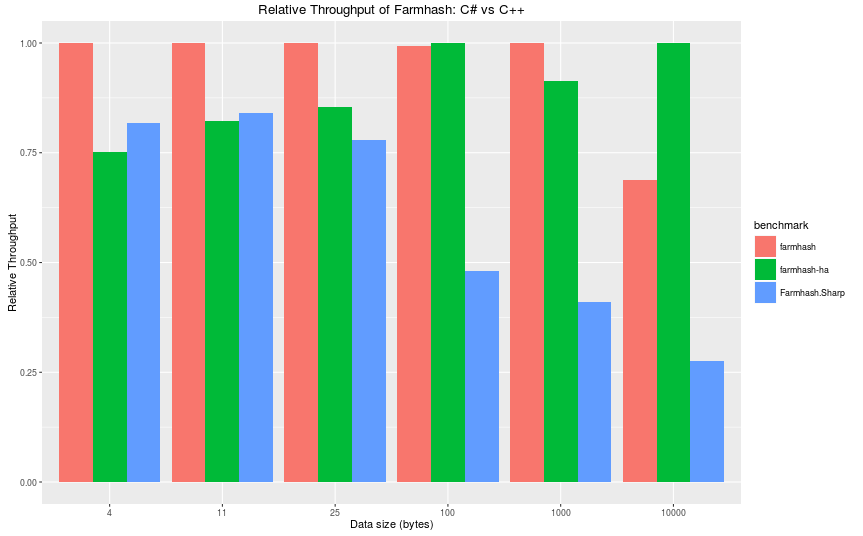
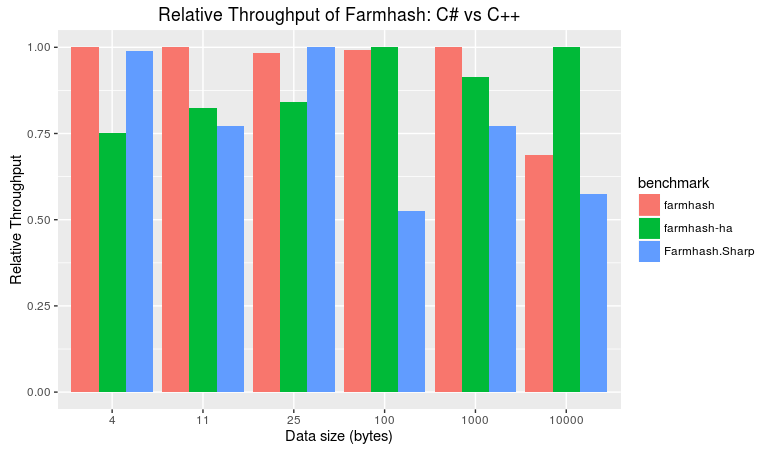
Update generated documentation for version 0.3

diff --git a/benchmarks.html b/benchmarks.html
@@ -44,7 +44,7 @@ against each other in terms of throughput.</p>
 <span class="l">4: </span>
 <span class="l">5: </span>
 </pre></td>
-<td class="snippet"><pre class="fssnip"><code lang="ini">BenchmarkDotNet=v0.9.1.0
+<td class="snippet"><pre class="fssnip"><code lang="ini">BenchmarkDotNet=v0.9.7.0
 OS=Microsoft Windows NT 6.2.9200.0
 Processor=Intel(R) Core(TM) i7-6700K CPU @ 4.00GHz, ProcessorCount=8
 Frequency=3914059 ticks, Resolution=255.4893 ns
@@ -60,23 +60,39 @@ HostCLR=MS.NET 4.0.30319.42000, Arch=64-bit RELEASE [RyuJIT]
 </tr>
 </table>
 <h2><a name="Median-Time-to-Hash" class="anchor" href="#Median-Time-to-Hash">Median Time to Hash</a></h2>
-<p><img src="/Farmhash.Sharp/img/farmhash-benchmark1.png" alt="Farmhash-benchmark1" /></p>
+<p><a href="/Farmhash.Sharp/img/farmhash-benchmark1.png"><img src="/Farmhash.Sharp/img/farmhash-benchmark1.png" alt="Farmhash-benchmark1" /></a></p>
+<p>That's a big graph, so to get a better idea of the data, you can click on it
+for maximum view.</p>
 <p>The graph depicts the median time in nanoseconds to hash data of a certain
 size grouped by resulting hash size (eg. 32 or 64bit, which is not underlying
 machine architecture). A logarithmic scale had to be applied because other
-hash functions are so slow, they'd heavily skew the graph.</p>
-<p>We can see for 64bit, that when hashing data that is 1000 bytes (~1KB), that
-FarmHash is about 10x faster than the closest competitor.</p>
+hash functions are so slow, they'd heavily skew the graph. Slow examples include,
+MD5, which I included as a baseline, SpookyHash, and HashFunctionCityHash to name
+a few. Intrinsically, these hash functions are not slow, but the C# implementation
+leaves a lot wanting in terms of performance.</p>
+<p>Due to the sheer amount of data it may be hard to interpret the graph. It's included
+mostly for completeness before we narrow the data down to the fastest. But, what we
+can see is that n see for 64bit, that when hashing data that is 1000 bytes (~1KB) or less,
+Farmhash.Sharp is the clear winner.</p>
 <p>For 32bit hash functions, the built in <code>GetHashCode</code> on strings has a tight
 grip on smaller data, but falls off for larget data.</p>
 <h2><a name="Relative-Throughput" class="anchor" href="#Relative-Throughput">Relative Throughput</a></h2>
-<p><img src="/Farmhash.Sharp/img/farmhash-benchmark2.png" alt="Farmhash-benchmark2" /></p>
+<p>Now let's narrow the data down to the top three fastest implementation for each
+data size (4, 11, 25, etc bytes).</p>
+<p><a href="/Farmhash.Sharp/img/farmhash-benchmark2.png"><img src="/Farmhash.Sharp/img/farmhash-benchmark2.png" alt="Farmhash-benchmark2" /></a></p>
 <p>The bar shows the relative throughput of each hash function relative to the
 fastest hash function in that category. So the higher the bar chart, the
 better.</p>
-<p>Here we combine resulting 32 and 64 bit hash functions for an interesting
-result. Across all data sizes, the FarmHash-64bit version is fastest, though
-for short string lengths, <code>GetHashCode</code> gives FarmHash a run for its money.</p>
+<p>The results show that Farmhash.Sharp is the fastest or is in the top three for
+every category except for hashing 100 bytes. Notable shotout has to be given
+to the xxHash function <a href="https://github.com/ayende/ravendb/blob/d43acf65e4e55b8789f3ea0d900bd44366ca81e0/Raven.Sparrow/Sparrow/Hashing.cs">implemented in Ravendb</a>,
+as it starts to outpace Farmhash.Sharp in large inputs.</p>
+<h2><a name="Absolute-Throughput" class="anchor" href="#Absolute-Throughput">Absolute Throughput</a></h2>
+<p>Relative throughput is only one metric. How many megabytes a second (MB/s) a algorithm
+can process is another:</p>
+<p><a href="/Farmhash.Sharp/img/farmhash-benchmark3.png"><img src="/Farmhash.Sharp/img/farmhash-benchmark3.png" alt="Farmhash-benchmark3" /></a></p>
+<p>Notice that the throughput is less for smaller inputs. This is because there is additional
+overhead to working with small objects and repeatedly calling the function.</p>
 <h2><a name="C-vs-C" class="anchor" href="#C-vs-C">C# vs. C++</a></h2>
 <p>A good question would be how much efficiency is lost because we're using
 C# and not C++, as the original farmhash algorithm uses C++. You can find the
@@ -84,15 +100,16 @@ benchmark code <a href="https://github.com/nickbabcock/Farmhash.Sharp/tree/5ef3f
 It uses two versions of the algorithm, one that uses hardware acceleration
 (<a href="https://en.wikipedia.org/wiki/SIMD">SIMD</a> instructions), denoted by <code>-ha</code>
 in the graph, and another compilation that does not use hardware acceleration.</p>
-<p><img src="/Farmhash.Sharp/img/c-sharp-vs-cpp.png" alt="Farmhash-benchmark3" /></p>
+<p><a href="/Farmhash.Sharp/img/c-sharp-vs-cpp.png"><img src="/Farmhash.Sharp/img/c-sharp-vs-cpp.png" alt="Farmhash-benchmark4" /></a></p>
 <p>I'm pleased to report that for small payloads (&lt;= 25 bytes), Farmhash.Sharp
-is around 75% as fast as the fastest configuration. It's only at larger payloads
-do we see C++'s lead extend as hardware acceleration becomes more effective.</p>
+is around about the fastest if not the fastest. It's only at larger payloads
+do we see C++'s lead extend as hardware acceleration becomes more effective.
+Still, for large payloads, Farmhash.Sharp has half the throughput as hardware
+accelerated C++, which in my opinion, is quite impressive.</p>
 <h2><a name="Conclusion" class="anchor" href="#Conclusion">Conclusion</a></h2>
 <p>When deploying on a 64bit application, always choose the 64bit Farmhash
-version. If, for whatever reason, Farmhash isn't for you, choose xxHash for
-data of lengths less than 1000 bytes and HashFunction CityHash for lengths
-greater than 1000.</p>
+version. If, for whatever reason, Farmhash isn't for you, choose xxHash found
+in Ravendb.</p>
 <p>And I'm just going to squirrel away the code used to generate the graph.</p>
 <table class="pre"><tr><td class="lines"><pre class="fssnip"><span class="l"> 1: </span>
 <span class="l"> 2: </span>
@@ -121,34 +138,88 @@ greater than 1000.</p>
 <span class="l">25: </span>
 <span class="l">26: </span>
 <span class="l">27: </span>
+<span class="l">28: </span>
+<span class="l">29: </span>
+<span class="l">30: </span>
+<span class="l">31: </span>
+<span class="l">32: </span>
+<span class="l">33: </span>
+<span class="l">34: </span>
+<span class="l">35: </span>
+<span class="l">36: </span>
+<span class="l">37: </span>
+<span class="l">38: </span>
+<span class="l">39: </span>
+<span class="l">40: </span>
+<span class="l">41: </span>
+<span class="l">42: </span>
+<span class="l">43: </span>
+<span class="l">44: </span>
+<span class="l">45: </span>
+<span class="l">46: </span>
+<span class="l">47: </span>
+<span class="l">48: </span>
+<span class="l">49: </span>
+<span class="l">50: </span>
+<span class="l">51: </span>
+<span class="l">52: </span>
+<span class="l">53: </span>
+<span class="l">54: </span>
 </pre></td>
 <td class="snippet"><pre class="fssnip"><code lang="R">library(ggplot2)
 library(dplyr)
+library(stringr)
+library(readr)
 
-data &lt;- read.csv("farmhash-report.csv", sep=";") %&gt;%
-  select(Type, Method, Size=PayloadLength, Median)
+# Converts "2.313 ns" to 2.313
+toNs &lt;- function(x) {
+    split &lt;- str_split(x, " ")
+    num &lt;- as.numeric(gsub(",", "", split[[1]][[1]]))
+    factor &lt;- switch(split[[1]][[2]], ns=1, us=1000, ms=1000*1000)
+    num * factor
+}
+vtoNs &lt;- Vectorize(toNs)
 
-breaks &lt;- data %&gt;% select(Size) %&gt;% distinct() %&gt;% arrange(Size) %&gt;% t %&gt;% c
+core32 &lt;- read_csv2("core-HashBenchmark32-report.csv") %&gt;%
+    mutate(Bit='32bit', Jit='.NET Core')
+core64 &lt;- read_csv2("core-HashBenchmark64-report.csv") %&gt;%
+    mutate(Bit='64bit', Jit='.NET Core')
+net32 &lt;- read_csv2("HashBenchmark32-report.csv") %&gt;%
+    mutate(Bit='32bit', Jit='.NET 4.5')
+net64 &lt;- read_csv2("HashBenchmark64-report.csv") %&gt;%
+    mutate(Bit='64bit', Jit='.NET 4.5')
 
-ggplot(data, aes(as.factor(Size), Median, group=Method, color=Method)) +
-  labs(title='Median Time to Hash', x='Data size (bytes)',
-       y='Time to hash (ns)') +
-  geom_line(size=1.5) +
-  scale_y_log10() +
-  facet_grid(Type ~ .)
+# Combine all four sheets into one with parsed properties
+combined &lt;- bind_rows(core32, core64, net32, net64) %&gt;%
+    select(Method, PayloadLength, Median, StdDev, Bit, Jit) %&gt;%
+    mutate(Median = vtoNs(Median), StdDev = vtoNs(StdDev))
 
-relative &lt;- data %&gt;%
-  mutate(Name = paste(Method, Type, sep="-")) %&gt;%
-  select(-Method, -Type) %&gt;%
-  group_by(Size) %&gt;%
-  arrange(Median) %&gt;%
-  mutate(value = first(Median) / Median) %&gt;%
-  top_n(5, wt = value)
+ggplot(combined, mapping = aes(as.factor(PayloadLength), Median, group = Method, color = Method)) +
+    geom_line(size=1.5) +
+    scale_y_log10() +
+    facet_grid(Bit ~ Jit) +
+    xlab("Data size (bytes)") + ylab("Median (ns)") +
+    ggtitle("Comparison of Median Time To Hash Data Across Jit and Return Size with Logarithmic Scale")
 
-ggplot(relative, aes(as.factor(Size), value)) +
+relative &lt;- combined %&gt;%    
+  # Throughput converts bytes/ns to MB/s
+  mutate(Name = paste(Method, Bit, Jit, sep="-"),
+         Throughput = (PayloadLength / (1024 * 1024)) /
+            (Median / (1000*1000*1000))) %&gt;%
+  select(-Method, -Bit, -Jit) %&gt;%
+  group_by(PayloadLength) %&gt;%
+  mutate(value = min(Median) / Median) %&gt;%
+  top_n(3, wt = value)
+
+ggplot(relative, aes(as.factor(PayloadLength), value)) +
   geom_bar(aes(fill=Name), stat='identity', position='dodge') +
-  labs(title='Relative Throughput across Resulting Hash Size', 
-       x='Data size (bytes)', y="Relative Throughput")
+  labs(title='Relative Throughput of Top 3 Performers Per Data Size', 
+       x='Data size (bytes)', y="Relative Throughput to Top Perfomer")
+
+ggplot(relative, aes(as.factor(PayloadLength), Throughput)) +
+  geom_bar(aes(fill=Name), stat='identity', position='dodge') +
+  labs(title='Absolute Throughput of Top 3 Perfomers Per Data Size', 
+       x='Data size (bytes)', y="MB/s")
 </code></pre></td></tr></table>
 <p>And the code for the C# vs C++ graph:</p>
 <table class="pre"><tr><td class="lines"><pre class="fssnip"><span class="l"> 1: </span>
@@ -171,7 +242,6 @@ ggplot(relative, aes(as.factor(Size), value)) +
 <span class="l">18: </span>
 <span class="l">19: </span>
 <span class="l">20: </span>
-<span class="l">21: </span>
 </pre></td>
 <td class="snippet"><pre class="fssnip"><code lang="R">library(ggplot2)
 library(dplyr)
@@ -181,14 +251,13 @@ payload &lt;- rep(c(4, 11, 25, 100, 1000, 10000), 3)
 
 # Throughput is measured in how many GB/s can be hashed
 throughput &lt;- c(1.03503, 2.50114, 5.68304, 5.82953, 13.0187, 23.7148, 1.3749, 3.04061, 6.6442,
-                5.79228, 14.2568, 16.2982, 1.1241, 2.5563, 5.171, 2.80498, 5.86157, 6.528081)
+                5.79228, 14.2568, 16.2982, 1.359, 2.3488, 6.752, 3.058, 11.008, 13.637)
 
 data &lt;- data.frame(benchmark, payload, throughput)
 
 relative &lt;- data %&gt;%
   group_by(payload) %&gt;%
-  arrange(throughput) %&gt;%
-  mutate(value = throughput / last(throughput))
+  mutate(value = throughput / max(throughput))
 
 ggplot(relative, aes(as.factor(payload), value)) +
   geom_bar(aes(fill=benchmark), stat='identity', position='dodge') +

diff --git a/release-notes.html b/release-notes.html
@@ -32,6 +32,10 @@
       <div class="row">
         <div class="span9" id="main">
           
+<h3><a name="0-3-Unreleased" class="anchor" href="#0-3-Unreleased">0.3 - Unreleased</a></h3>
+<ul>
+<li>Support for .NET core</li>
+</ul>
 <h3><a name="0-2-June-25th-2016" class="anchor" href="#0-2-June-25th-2016">0.2 - June 25th 2016</a></h3>
 <ul>
 <li>String helper functions</li>
